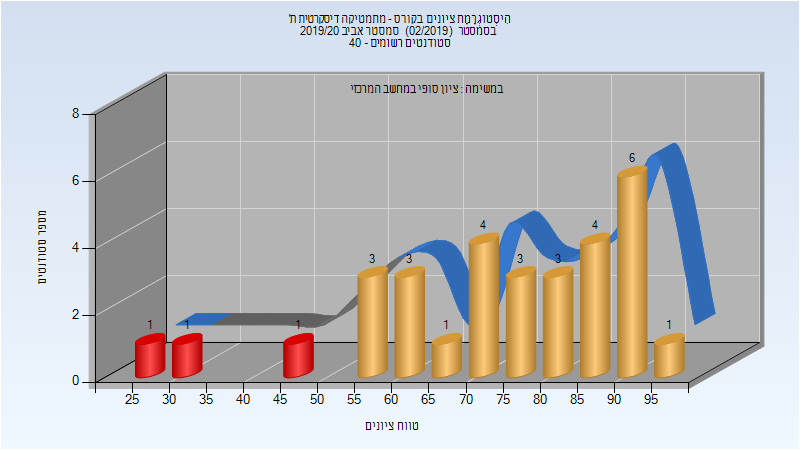
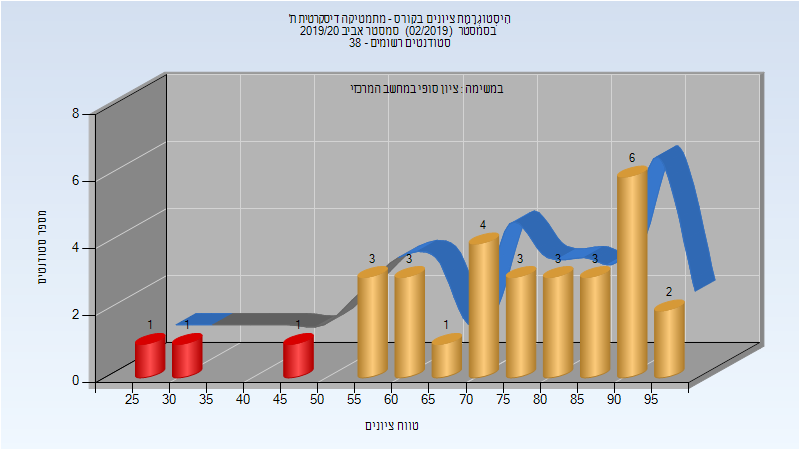
Deploy michael-maltsev/technion-histograms to github.com/michael-maltsev/technion-histograms.git:gh-pages

Changed region(s): [[0.7812, 0.3111, 0.9062, 0.7778], [0.6875, 0.4978, 0.7812, 0.6222], [0.4375, 0.0933, 0.4688, 0.1244]]

diff --git a/094345/index.html b/094345/index.html
@@ -748,8 +748,8 @@
 <td>90</td>
 <td>27</td>
 <td>97</td>
-<td>74</td>
-<td>77</td>
+<td>74.323</td>
+<td>78</td>
 </tr>
 </tbody>
 </table>

diff --git a/094345/README.md b/094345/README.md
@@ -229,5 +229,5 @@
 
 | סטודנטים | עברו/נכשלו | אחוז עוברים | ציון מינימלי | ציון מקסימלי | ממוצע | חציון |
 | ---- | ---- | ---- | ---- | ---- | ---- | ---- |
-| 31 | 28/3 | 90 | 27 | 97 | 74 | 77 |
+| 31 | 28/3 | 90 | 27 | 97 | 74.323 | 78 |
 
